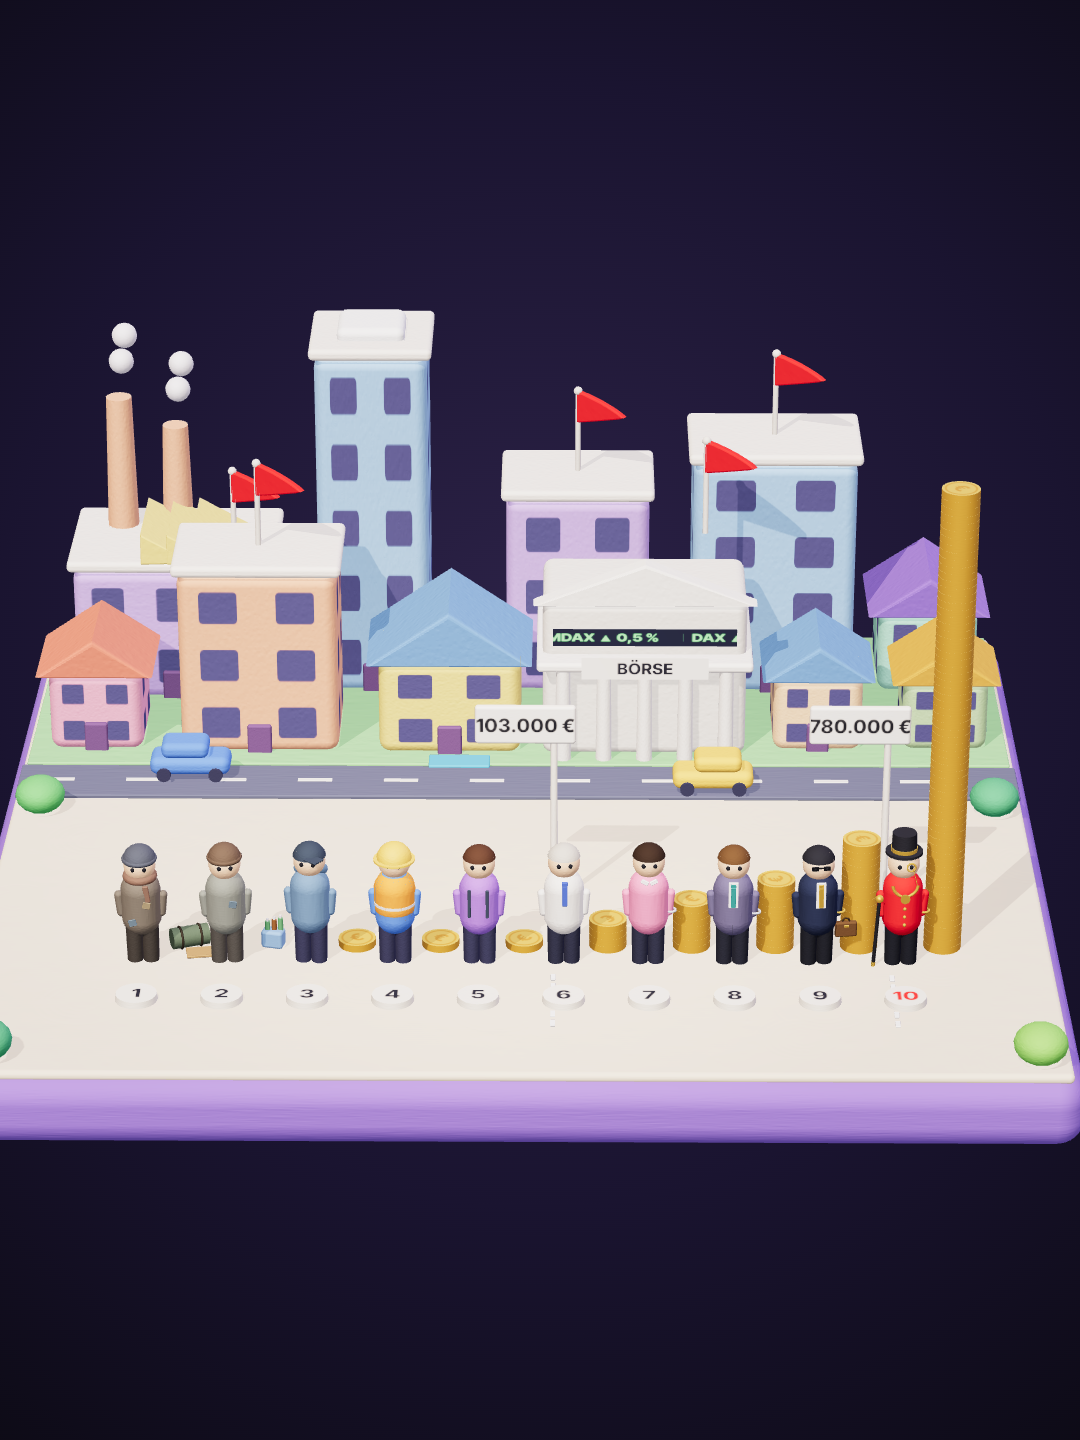
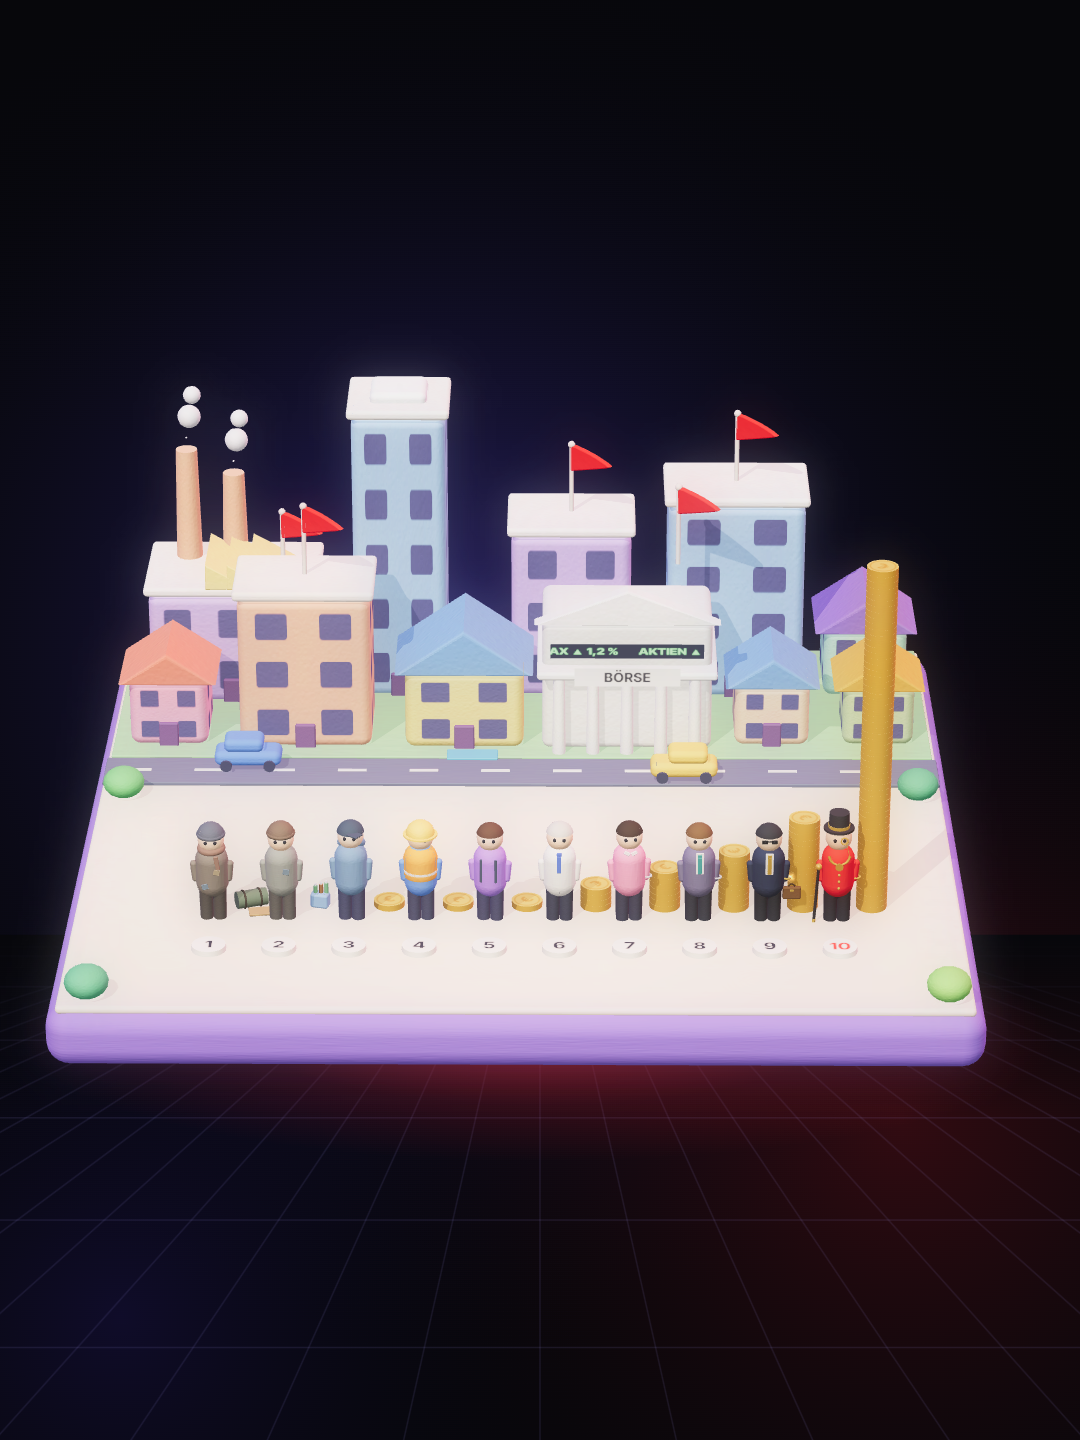
Thumbnails Gesetze und Wem gehört Deutschland im Kanal-Cover-Look
Claude-Session: https://claude.ai/code/session_01JQEQeouhfuAX8JpSfuj7SD

diff --git a/vermoegen/src/knete.js b/vermoegen/src/knete.js
@@ -364,7 +364,8 @@ function camAt(t) {let i = 0; while (i < KT.length - 2 && t > KT[i + 1]) i++; co
   const a = 2 * u3 - 3 * u2 + 1, b = u3 - 2 * u2 + u, c = -2 * u3 + 3 * u2, e = u3 - u2; return [0, 1, 2, 3, 4, 5, 6].map(j => a * KV[i][j] + b * h * KM[j][i] + c * KV[i + 1][j] + e * h * KM[j][i + 1]);}
 const CAMT = new THREE.Vector3();
 const CAMQ = new URLSearchParams(location.search).get('cam');
-function setCam(t) {const v = CAMQ ? (q => [q[0], q[1], q[2], Math.log(q[3]), q[4], q[5], q[6] || 26])(CAMQ.split(',').map(Number)) : camAt(t), size = Math.exp(v[3]); const az = (v[4] + 0.15 * Math.sin(t * 0.17)) * Math.PI / 180, el = (v[5] + 0.08 * Math.sin(t * 0.23 + 0.7)) * Math.PI / 180;
+const COVERQ = new URLSearchParams(location.search).get('cover'), COVER_S = +(new URLSearchParams(location.search).get('cs') || 1.22);
+function setCam(t) {const v = CAMQ ? (q => [q[0], q[1], q[2], Math.log(q[3]), q[4], q[5], q[6] || 26])(CAMQ.split(',').map(Number)) : COVERQ ? (w => {w[3] += Math.log(COVER_S); return w;})(camAt(56)) : camAt(t), size = Math.exp(v[3]); const az = (v[4] + 0.15 * Math.sin(t * 0.17)) * Math.PI / 180, el = (v[5] + 0.08 * Math.sin(t * 0.23 + 0.7)) * Math.PI / 180;
   CAMT.set(v[0], v[1], v[2]); const dir = new THREE.Vector3(Math.sin(az) * Math.cos(el), Math.sin(el), Math.cos(az) * Math.cos(el));
   cam.fov = v[6]; const d = size / Math.tan(v[6] / 2 * Math.PI / 180); cam.position.copy(CAMT).addScaledVector(dir, d); cam.near = Math.max(0.05, d * 0.2); cam.far = d + 20;
   cam.lookAt(CAMT); cam.updateProjectionMatrix(); cam.updateMatrixWorld(); return size;}
@@ -501,4 +502,31 @@ window.CHECK = (step = 1 / 30) => {const bad = []; let minCC = 9;
 // labels must stay inside the picture and away from the subtitle band
 window.CHECK_LABELS = (step = 0.1) => {const bad = []; for (let t = 0; t <= OUT0; t += step) {setTime(t); for (const p of PILLS) {if (p[1] < 36 || p[1] + p[3] > W - 36 || p[2] < 470 || p[2] + p[4] > 1400) bad.push([+t.toFixed(1), p[0], Math.round(p[1]), Math.round(p[2])]);}} return {n: bad.length, bad: bad.slice(0, 40)};};
 window.DBGO = {THREE, scene, cam, COINS, FIG, TOWN, coinAt, discHit, TREE_SKIPPED};
-drawAt(0); window.ready = true;
+// ---- channel cover look (like geldautomat/cover_atm_modern.html?mode=clean): dark #07070B, violet and red light, floor grid,
+//      red light pool under the motif, soft glow over bright parts. Used by ?cover=1 for the clean thumbnail.
+function coverBackground(CX, CY) {
+  const c = document.createElement('canvas'); c.width = 1080; c.height = 1920; c.style.position = 'absolute'; c.style.left = '0'; c.style.top = '0'; c.style.zIndex = '-1';
+  document.body.insertBefore(c, document.body.firstChild); document.documentElement.style.background = '#07070B'; document.body.style.background = 'transparent';
+  const bg = c.getContext('2d'), W2 = 1080, H2 = 1920; bg.fillStyle = '#07070B'; bg.fillRect(0, 0, W2, H2);
+  const blob = (x, y, r, col) => {const g = bg.createRadialGradient(x, y, 0, x, y, r); g.addColorStop(0, col); g.addColorStop(1, 'rgba(0,0,0,0)'); bg.fillStyle = g; bg.fillRect(0, 0, W2, H2);};
+  blob(430, CY - 400, 760, 'rgba(96,78,255,0.34)'); blob(900, CY + 80, 620, 'rgba(224,30,43,0.20)'); blob(120, CY + 280, 500, 'rgba(60,40,200,0.16)');
+  bg.save(); bg.strokeStyle = 'rgba(170,160,255,0.10)'; bg.lineWidth = 1.5; const hz = CY - 90;
+  for (let i = -14; i <= 14; i++) {bg.beginPath(); bg.moveTo(CX + i * 26, hz); bg.lineTo(CX + i * 190, H2); bg.stroke();}
+  for (let k = 0; k < 9; k++) {const y = hz + Math.pow(k / 8, 2.1) * (H2 - hz); bg.beginPath(); bg.moveTo(0, y); bg.lineTo(W2, y); bg.stroke();}
+  const f = bg.createLinearGradient(0, hz - 10, 0, hz + 170); f.addColorStop(0, '#07070B'); f.addColorStop(1, 'rgba(7,7,11,0)'); bg.fillStyle = f; bg.fillRect(0, hz - 12, W2, 190);
+  const f2 = bg.createLinearGradient(0, H2 - 220, 0, H2); f2.addColorStop(0, 'rgba(7,7,11,0)'); f2.addColorStop(1, 'rgba(7,7,11,.95)'); bg.fillStyle = f2; bg.fillRect(0, H2 - 220, W2, 220); bg.restore();
+  bg.save(); bg.translate(CX, CY); bg.scale(1, 0.24); const g = bg.createRadialGradient(0, 0, 0, 0, 0, 520); g.addColorStop(0, 'rgba(224,30,43,0.55)'); g.addColorStop(.55, 'rgba(224,30,43,0.16)'); g.addColorStop(1, 'rgba(224,30,43,0)');
+  bg.fillStyle = g; bg.beginPath(); bg.arc(0, 0, 520, 0, Math.PI * 2); bg.fill(); bg.restore();
+  const v = bg.createLinearGradient(0, 0, 0, 700); v.addColorStop(0, 'rgba(7,7,11,.4)'); v.addColorStop(1, 'rgba(7,7,11,0)'); bg.fillStyle = v; bg.fillRect(0, 0, W2, 700);}
+function coverGlow(src) {   // cheap bloom on top, keeps the transparent WebGL background
+  const c = document.createElement('canvas'); c.width = 1080; c.height = 1920; c.style.position = 'absolute'; c.style.left = '0'; c.style.top = '0'; c.style.pointerEvents = 'none'; document.body.appendChild(c);
+  const g = c.getContext('2d'); g.globalCompositeOperation = 'lighter'; g.filter = 'blur(22px) brightness(1.1)'; g.globalAlpha = 0.2; g.drawImage(src, 0, 0);}
+// ?cover=1: clean thumbnail in the channel cover look (the whole clay model in the middle, no text, safe for the 3:4 crop); &ct= time of the scene
+if (COVERQ) {for (const id of ['ov', 'shade', 'lab', 'fade', 'end']) {const e = document.getElementById(id); if (e) e.style.display = 'none';}
+  hemi.intensity = 0.55; hemi.groundColor.set(0x14080c);
+  {const r1 = new THREE.DirectionalLight(0xff3344, 1.6); r1.position.set(4, 2.5, -3); scene.add(r1); const r2 = new THREE.DirectionalLight(0x8a78ff, 1.0); r2.position.set(-4, 2, -2); scene.add(r2);}
+  drawAt(+(new URLSearchParams(location.search).get('ct') || 30));
+  const box = new THREE.Box3(); for (const x of [-2.5, 2.5]) for (const z of [1.65 + 0.12]) box.expandByPoint(new THREE.Vector3(x, -0.25, z));
+  const q = new THREE.Vector3(0, -0.25, 1.77).project(cam); coverBackground(540, (1 - q.y) / 2 * H - 30); coverGlow(renderer.domElement);
+  window.renderFrame = () => {}; window.ready = true;}
+else {drawAt(0); window.ready = true;}

diff --git a/gesetze/src/podest.js b/gesetze/src/podest.js
@@ -468,9 +468,40 @@ window.TOTAL = Math.round((END_V + VO) * 30);
 window.setT = setT;
 window.renderFrame = f => {setT(f / 30 - VO); renderer.render(scene, cam);};
 window.DBG = {THREE, scene, cam, POD, CROWD, CORO, STUD, CONV, PARA, SOLD, paraState, HOV, PX, PZ, PH, PW, STEP, CONF};
-// ?cover=1: clean thumbnail (no text, the whole staircase large in the middle, safe for the 3:4 crop of the profile grid)
-if (new URLSearchParams(location.search).get('cover')) {document.getElementById('ov').style.display = 'none'; document.getElementById('shade').style.display = 'none';
-  const f = fit([...allPts(), ...paraTop(4)], -16, 17, {x0: 70, x1: 1010, y0: 470, y1: 1450}); const v0 = 3.2;
-  window.renderFrame = () => {setT(v0); const A = f[4] * Math.PI / 180, E = f[5] * Math.PI / 180; cam.position.set(f[0] + f[3] * Math.cos(E) * Math.sin(A), f[1] + f[3] * Math.sin(E), f[2] + f[3] * Math.cos(E) * Math.cos(A)); cam.lookAt(f[0], f[1], f[2]); renderer.render(scene, cam);};}
+
+// ---- channel cover look (like geldautomat/cover_atm_modern.html?mode=clean): dark #07070B, violet and red light, floor grid,
+//      red light pool under the motif, soft glow over bright parts. Used by ?cover=1 for the clean thumbnail.
+function coverBackground(CX, CY) {
+  const c = document.createElement('canvas'); c.width = 1080; c.height = 1920; c.style.position = 'absolute'; c.style.left = '0'; c.style.top = '0'; c.style.zIndex = '-1';
+  document.body.insertBefore(c, document.body.firstChild); document.documentElement.style.background = '#07070B'; document.body.style.background = 'transparent';
+  const bg = c.getContext('2d'), W2 = 1080, H2 = 1920; bg.fillStyle = '#07070B'; bg.fillRect(0, 0, W2, H2);
+  const blob = (x, y, r, col) => {const g = bg.createRadialGradient(x, y, 0, x, y, r); g.addColorStop(0, col); g.addColorStop(1, 'rgba(0,0,0,0)'); bg.fillStyle = g; bg.fillRect(0, 0, W2, H2);};
+  blob(430, CY - 400, 760, 'rgba(96,78,255,0.34)'); blob(900, CY + 80, 620, 'rgba(224,30,43,0.20)'); blob(120, CY + 280, 500, 'rgba(60,40,200,0.16)');
+  bg.save(); bg.strokeStyle = 'rgba(170,160,255,0.10)'; bg.lineWidth = 1.5; const hz = CY - 90;
+  for (let i = -14; i <= 14; i++) {bg.beginPath(); bg.moveTo(CX + i * 26, hz); bg.lineTo(CX + i * 190, H2); bg.stroke();}
+  for (let k = 0; k < 9; k++) {const y = hz + Math.pow(k / 8, 2.1) * (H2 - hz); bg.beginPath(); bg.moveTo(0, y); bg.lineTo(W2, y); bg.stroke();}
+  const f = bg.createLinearGradient(0, hz - 10, 0, hz + 170); f.addColorStop(0, '#07070B'); f.addColorStop(1, 'rgba(7,7,11,0)'); bg.fillStyle = f; bg.fillRect(0, hz - 12, W2, 190);
+  const f2 = bg.createLinearGradient(0, H2 - 220, 0, H2); f2.addColorStop(0, 'rgba(7,7,11,0)'); f2.addColorStop(1, 'rgba(7,7,11,.95)'); bg.fillStyle = f2; bg.fillRect(0, H2 - 220, W2, 220); bg.restore();
+  bg.save(); bg.translate(CX, CY); bg.scale(1, 0.24); const g = bg.createRadialGradient(0, 0, 0, 0, 0, 520); g.addColorStop(0, 'rgba(224,30,43,0.55)'); g.addColorStop(.55, 'rgba(224,30,43,0.16)'); g.addColorStop(1, 'rgba(224,30,43,0)');
+  bg.fillStyle = g; bg.beginPath(); bg.arc(0, 0, 520, 0, Math.PI * 2); bg.fill(); bg.restore();
+  const v = bg.createLinearGradient(0, 0, 0, 700); v.addColorStop(0, 'rgba(7,7,11,.4)'); v.addColorStop(1, 'rgba(7,7,11,0)'); bg.fillStyle = v; bg.fillRect(0, 0, W2, 700);}
+function coverGlow(src) {   // cheap bloom on top, keeps the transparent WebGL background
+  const c = document.createElement('canvas'); c.width = 1080; c.height = 1920; c.style.position = 'absolute'; c.style.left = '0'; c.style.top = '0'; c.style.pointerEvents = 'none'; document.body.appendChild(c);
+  const g = c.getContext('2d'); g.globalCompositeOperation = 'lighter'; g.filter = 'blur(22px) brightness(1.1)'; g.globalAlpha = 0.2; g.drawImage(src, 0, 0);}
+// ?cover=1: clean thumbnail in the channel cover look (no text, the whole staircase large in the middle, safe for the 3:4 crop)
+if (new URLSearchParams(location.search).get('cover')) {for (const id of ['ov', 'shade', 'end']) document.getElementById(id).style.display = 'none';
+  const f = fit([...allPts(), ...paraTop(4)], -16, 15, {x0: 110, x1: 970, y0: 560, y1: 1430}); const v0 = 3.2;
+  scene.children.filter(o => o.isHemisphereLight).forEach(h => {h.intensity = 0.45; h.groundColor.set(0x14080c);});
+  {const r1 = new THREE.DirectionalLight(0xff3344, 1.8); r1.position.set(4, 2.5, -3); scene.add(r1); const r2 = new THREE.DirectionalLight(0x8a78ff, 1.1); r2.position.set(-4, 2, -2); scene.add(r2);
+   const pl = new THREE.PointLight(0xff2030, 0.6, 2.2, 1.8); pl.position.copy(HOV[4]).add(new THREE.Vector3(0, 0.3, 0.45)); scene.add(pl);}
+  scene.traverse(o => {if (o.material && o.material.isShadowMaterial) {o.material.color.set(0x000000); o.material.opacity = 0.28;}});
+  window.renderFrame = () => {setT(v0); CONF.forEach(c => {c.m.visible = false;}); BLOBS.forEach(b => {b.m.visible = false;});
+    const A = f[4] * Math.PI / 180, E = f[5] * Math.PI / 180; cam.position.set(f[0] + f[3] * Math.cos(E) * Math.sin(A), f[1] + f[3] * Math.sin(E), f[2] + f[3] * Math.cos(E) * Math.cos(A)); cam.lookAt(f[0], f[1], f[2]); cam.updateMatrixWorld(); renderer.render(scene, cam);};
+  window.renderFrame();
+  // the light pool sits under the front of the staircase
+  let ys = 0; for (let i = 0; i < 5; i++) {const q = V3(PX(i), 0, PZ(i) + PW / 2).project(cam); ys = Math.max(ys, (1 - q.y) / 2 * H);}
+  coverBackground(540, ys - 40); coverGlow(renderer.domElement);
+  window.renderFrame = () => {}; window.ready = true;}
+else {
 const q0 = new URLSearchParams(location.search).get('t'); window.renderFrame(Math.round(((q0 != null ? +q0 : 0) + VO) * 30));
-window.ready = true;
+window.ready = true;}

diff --git a/STATUS.md b/STATUS.md
@@ -188,3 +188,4 @@ Der Nutzer wollte neue Ideen ohne Diorama-Look und hat dieses Thema gewählt, da
 - Feedback „Outro sieht nicht gut aus, einfach eine 2D-Animation beim Outro“: 3D-Konfetti-Outro ersetzt durch einen 2D-Abspann (Abblende auf Dunkelviolett, rotes § ploppt auf und fliegt als Punkt hinter „function“, Buchstaben blenden nacheinander ein). Nur die Bilder ab 1640 neu gerendert und angesetzt, Ton der Outro neu. Fertig: `gesetze/renders/Diese_5_Gesetze_Podest_mit_Musik.mp4` (58,57 s, −14,9 LUFS), Ausschnitt `gesetze/Test_Podest_Outro_2D.mp4`. Geschickt.
 - Feedback „Mach ohne dem Paragrafen“: 2D-Outro ohne §, nur „function“ Buchstabe für Buchstabe und der rote Punkt ploppt auf. Bilder ab 1640 neu gerendert und angesetzt, Outro-Ton angepasst. Fertig und geschickt: `gesetze/renders/Diese_5_Gesetze_Podest_mit_Musik.mp4` (58,57 s, −14,9 LUFS), Ausschnitt `gesetze/Test_Podest_Outro_2D.mp4`.
 - Feedback „nur das Bild dunkler, man sollte den Hintergrund noch sehen“: Outro dunkelt das Bild nur noch ab (72 % plus weicher Schatten hinter dem Logo), die Podeste bleiben sichtbar. Bilder ab 1640 neu gerendert und angesetzt. Fertig und geschickt: `gesetze/renders/Diese_5_Gesetze_Podest_mit_Musik.mp4`, Ausschnitt `gesetze/Test_Podest_Outro_2D.mp4`.
+- Wunsch „die Thumbnails sollten einen Stil haben“ (22.11.2026): beide Thumbnails im Kanal-Cover-Look neu (wie `geldautomat/cover_atm_modern.html?mode=clean`: dunkel #07070B, violettes und rotes Licht, Bodenraster, roter Lichtschein unter dem Motiv, leichter Glow). Gesetze: `gesetze/podest.html?cover=1` (Podest-Treppe mit rotem §), Vermögen: `vermoegen/knete.html?cover=1&ct=35` (ganzes Knetemodell mit roten Fähnchen und Goldsäule). Dateien jeweils `<ordner>/social/Thumbnail_*_9x16.png` und `_Raster_3x4.png`. Ablage-Chat „Upload-Paket: 5 Gesetze & Wem gehört Deutschland“ (Sitzung session_01JQEQen11qkGeUtKWfxJPNL) mit Videos, Thumbnails und Texten.
